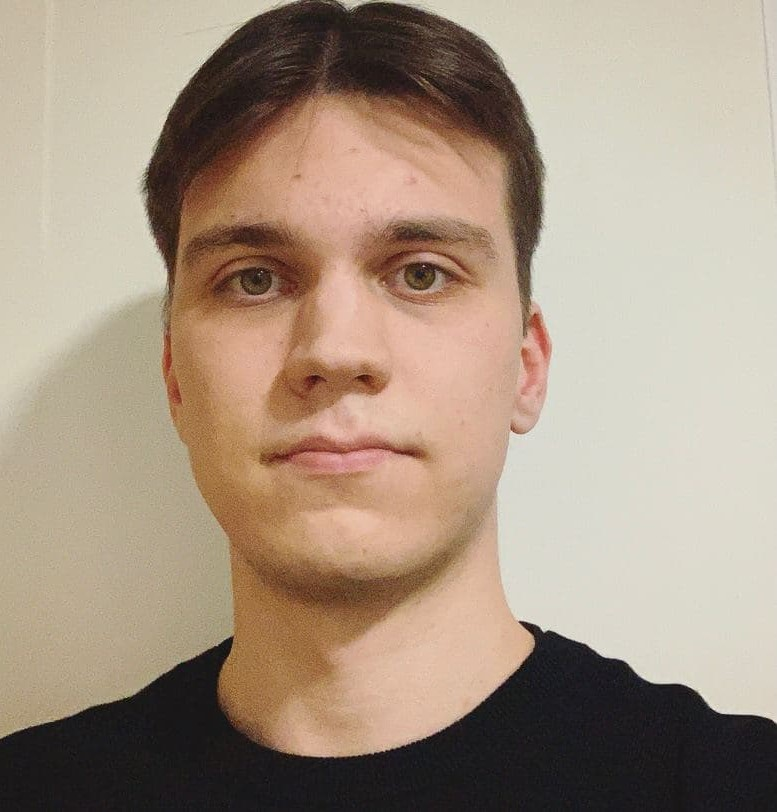
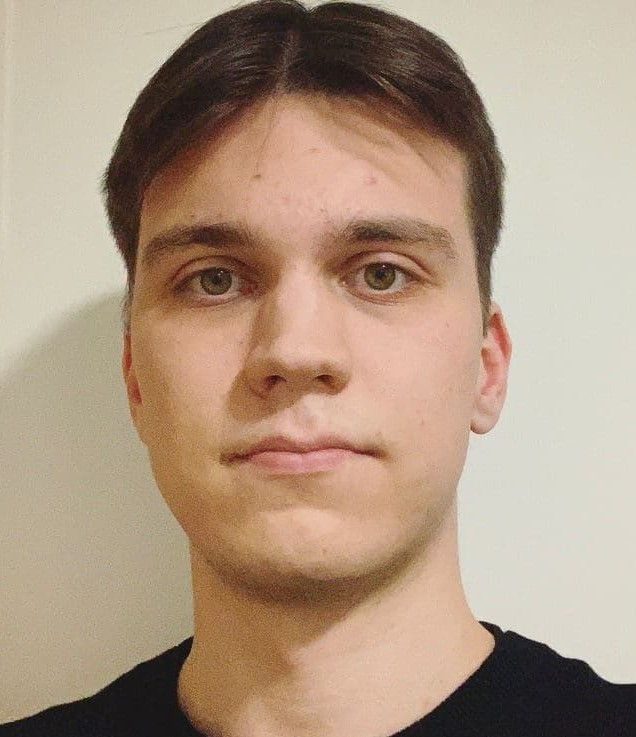
Updates

diff --git a/css/main.css b/css/main.css
@@ -52,8 +52,8 @@
     .menu-branding.show {
       transform: translate3d(0, 0, 0); }
     .menu-branding .portrait {
-      width: 700px;
-      height: 700px;
+      width: 630px;
+      height: 630px;
       background: url(../img/make.jpg);
       border-radius: 50%;
       border: solid 3px #b4f16e; }
@@ -253,16 +253,16 @@ main {
     div.menu-branding.show {
       transform: translate3d(0, 0, 0); }
   .menu-nav {
-    height: 75vh;
+    height: 40vh;
     transform: translate3d(-100%, 0, 0);
     font-size: 24px; }
   .menu-branding {
-    height: 25vh;
+    height: 60vh;
     transform: translate3d(100%, 0, 0); }
     .menu-branding .portait {
-      background: url("../img/orange.jpg");
-      width: 150px;
-      height: 150px; }
+      background: url("../img/make.jpg");
+      width: 630px;
+      height: 630px; }
   .cards {
     grid-template-columns: repeat(2, 1fr); }
   .projects {
